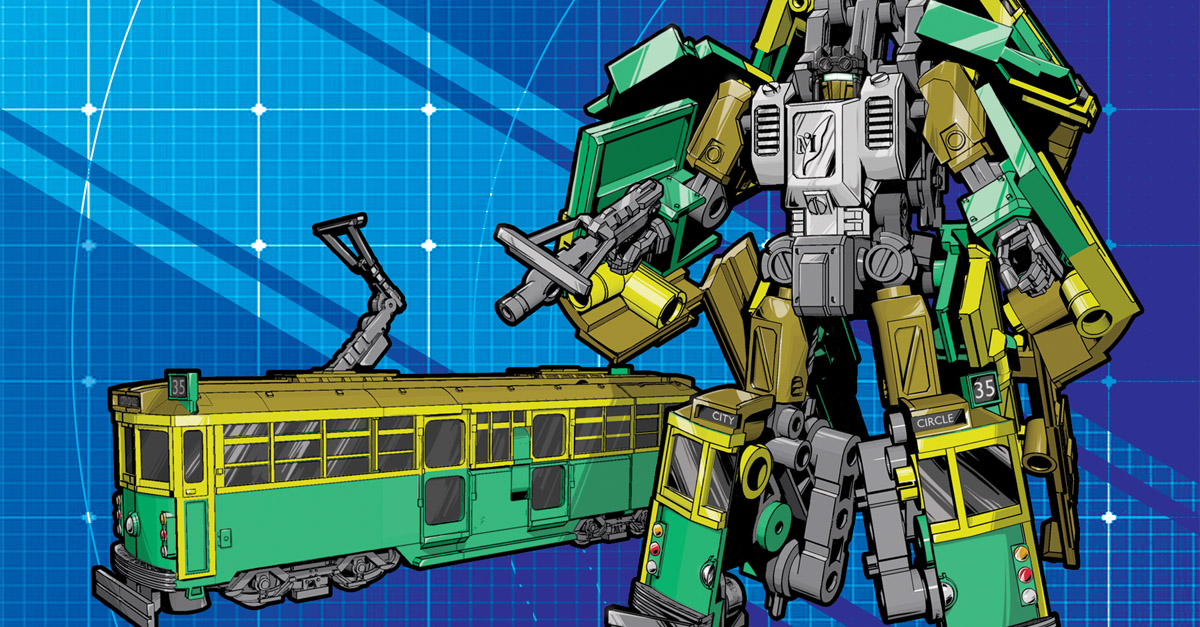
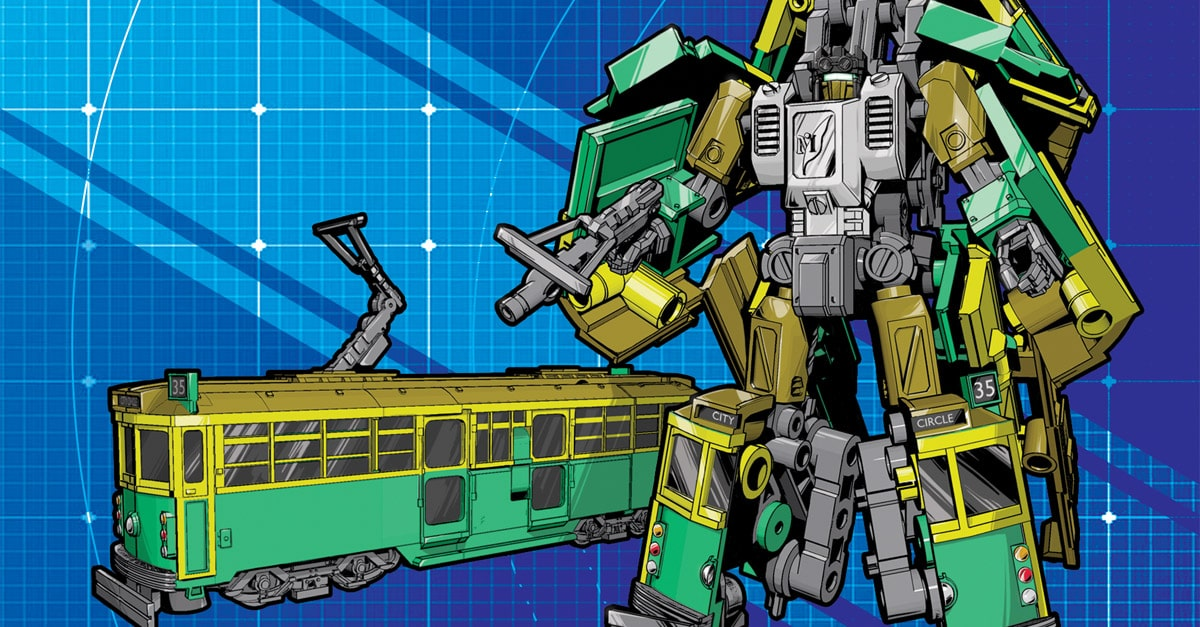
Optimise images, rename layouts to Layout

diff --git a/src/components/Post/index.js b/src/components/Post/index.js
@@ -3,7 +3,7 @@ import { Link } from "gatsby";
 import { Helmet } from "react-helmet";
 import { Date, RichText } from "prismic-reactjs";
 import BarPattern from "components/BarPattern";
-import Layout from "../layouts";
+import Layout from "components/Layout";
 import { ImageCaption, Quote, Text } from "../slices";
 import { Container, DateContainer, Nav } from "./styles";
 

diff --git a/src/pages/homepage.js b/src/pages/homepage.js
@@ -1,5 +1,5 @@
 import React from "react";
-import Layout from "components/layouts";
+import Layout from "components/Layout";
 import PostListing from "components/PostListing";
 import BlogHomeHead from "components/BlogHomeHead";
 

diff --git a/src/pages/about.js b/src/pages/about.js
@@ -1,5 +1,5 @@
 import React from "react";
-import Layout from "components/layouts";
+import Layout from "components/Layout";
 import AboutContent from "components/AboutContent";
 import { graphql } from "gatsby";
 
